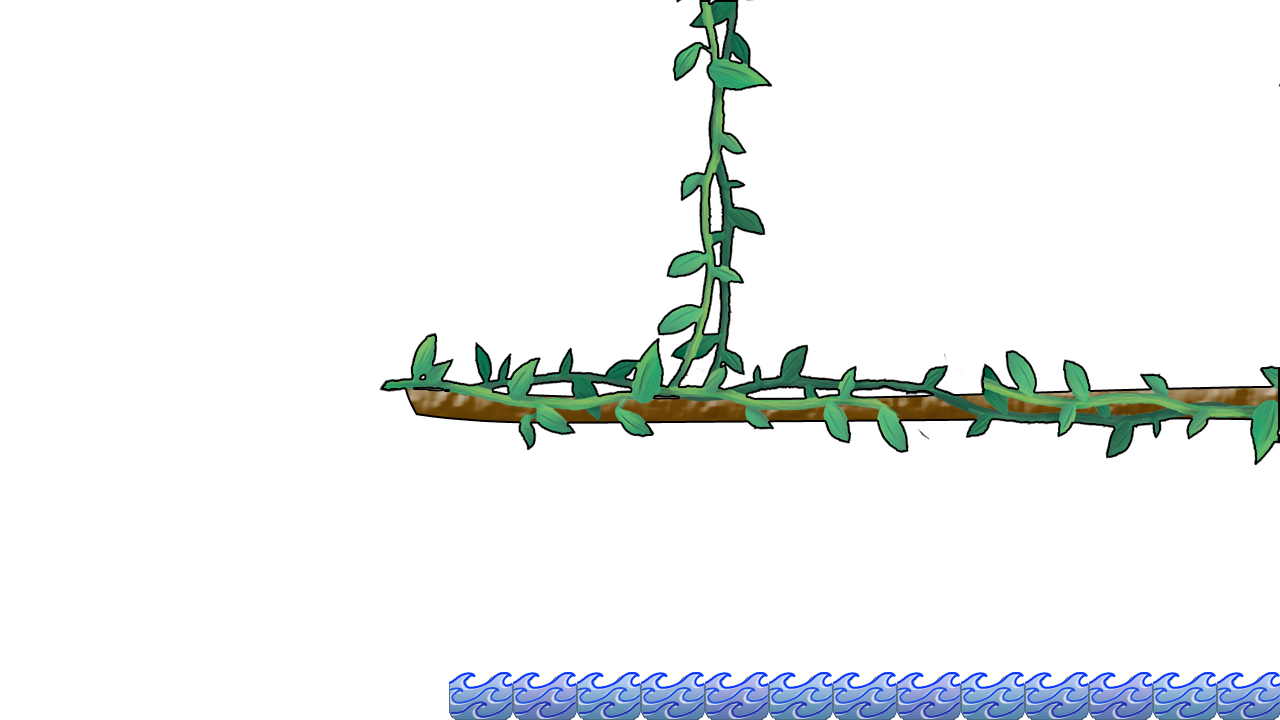
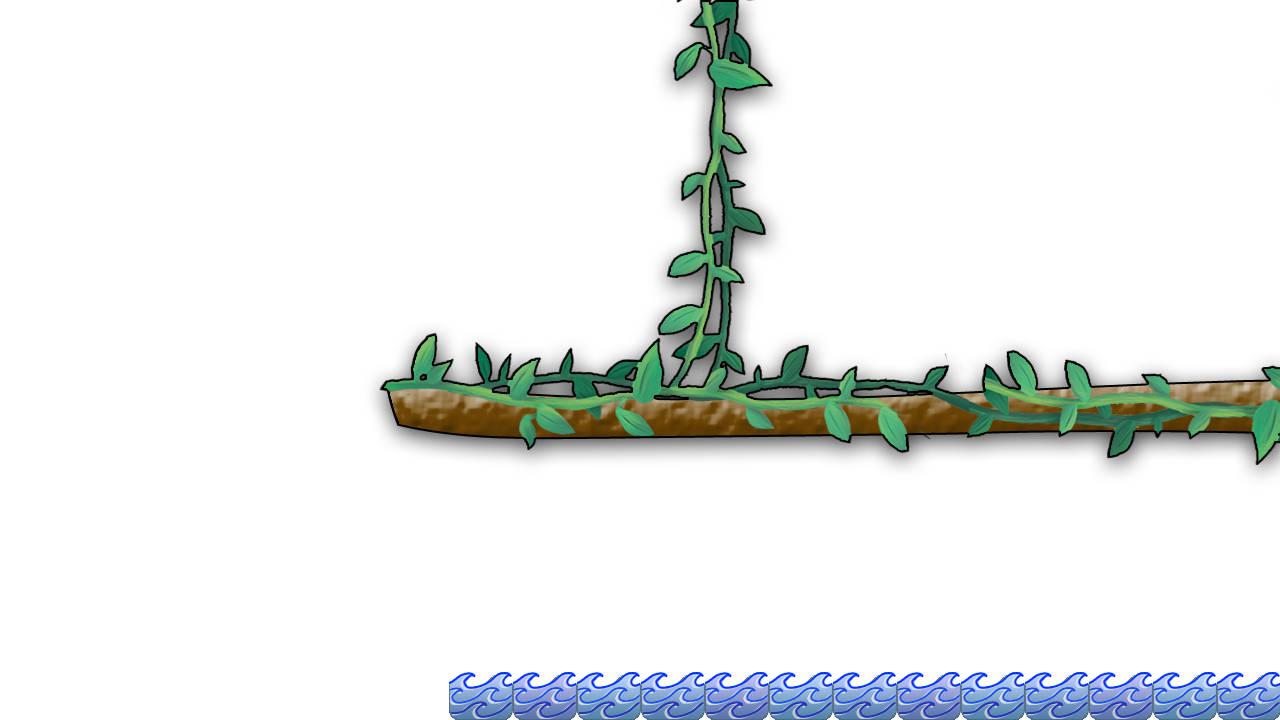
added disappearing rocks changed some backgrounds

Changed region(s): [[0.2812, 0.0, 1.0, 0.6722]]

diff --git a/Platform1/Platform1/Level.cs b/Platform1/Platform1/Level.cs
@@ -461,6 +461,8 @@ namespace LearningXNA
 
                 case '*':
                     return LoadTile("drawerOpen", TileCollision.Disappearing);
+                case '+':
+                    return LoadVarietyTile("rock", 3, TileCollision.Disappearing);
 
 
                 case '„':
